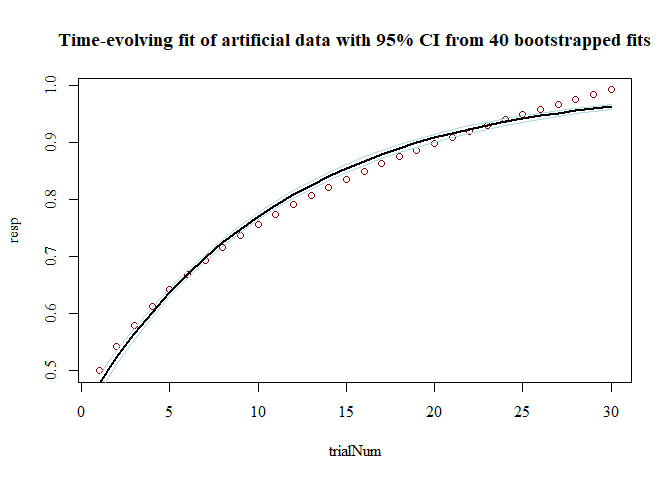
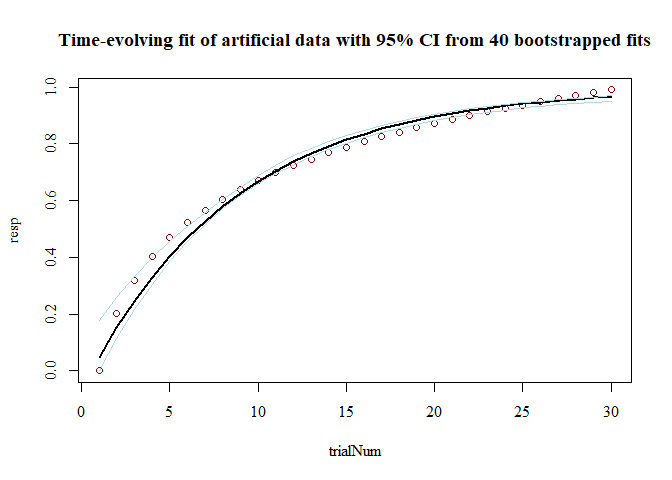
update README

diff --git a/README.md b/README.md
@@ -5,7 +5,7 @@ Overview to Time-Evolving fits
 The **TEfits** package streamlines nonlinear regression such as that encountered in analysis of learning. The **TEfits** package is intended to assist in the implementation and interpretation of nonlinear regression with a heavy emphasis on interpretability of parameters. Parameters fit by **TEfits** are meant to reflect human-interpretable representations of time-evolving processes such as starting values, number of trials until 50% of change, or asymptotic values. Error functions, nonlinear ("change") functions linking parameters and time to predicted values, parameter and prediction boundaries, and goodness-of-fit indices are intended to be clear and adjustable. An equal emphasis is on ease of use: minimal arguments are necessary to begin using the primary function, `TEfit()`, and many common tasks are fully automated (e.g., optimization starting points, bootstrapping).
 
 ``` r
-dat <- data.frame(resp=log(6:35),trialNum=1:30)
+dat <- data.frame(resp=log(1:30),trialNum=1:30)
 mod <- TEfit(dat[,c('resp','trialNum')])
 
 plot(mod,plot_title='Time-evolving fit of artificial data')
@@ -24,28 +24,28 @@ summary(mod)
     ## 
     ## >> Fit Values:
     ##        Estimate
-    ## pAsym     3.876
-    ## pStart    1.840
-    ## pRate     3.509
+    ## pAsym     3.371
+    ## pStart    0.316
+    ## pRate     2.543
     ## 
     ## >> Goodness-of-fit:
-    ##             err nullErr nPars nObs     Fval Pval  Rsquared       BIC   nullBIC
-    ## ols 0.008682719 7.34803     3   30 11411.31    0 0.9988184 -234.2249 -38.80176
+    ##           err nullErr nPars nObs     Fval Pval  Rsquared       BIC   nullBIC
+    ## ols 0.2760858  20.974     3   30 1012.083    0 0.9868368 -130.4436 -7.336215
     ##      deltaBIC
-    ## ols -195.4232
+    ## ols -123.1074
     ## 
     ## >> Test of change in nonindependence:
     ##                                            rawSpearman modelConditionalSpearman
-    ## Nonindependence between resp and trialNum:           1               0.05494994
+    ## Nonindependence between resp and trialNum:           1             0.0002224694
     ##                                            proportionalSpearmanChange
-    ## Nonindependence between resp and trialNum:                 0.05494994
+    ## Nonindependence between resp and trialNum:               0.0002224694
     ##                                            pValSpearmanChange
     ## Nonindependence between resp and trialNum:                  0
 
 An example of a learning fit using a Bernoulli response distribution, with 40 bootstrapped fits.
 
 ``` r
-dat <- data.frame(resp=log(6:35)/log(36),trialNum=1:30)
+dat <- data.frame(resp=log(1:30)/log(31),trialNum=1:30)
 mod <- TEfit(dat[,c('resp','trialNum')], 
              errFun='bernoulli',
              bootPars=list(nBoots=40))
@@ -65,19 +65,19 @@ summary(mod)
     ## 
     ## >> Fit Values:
     ##        Estimate  Q025  Q975 pseudoSE
-    ## pAsym     1.000 1.000 1.000    0.000
-    ## pRate     2.922 2.855 3.012    0.040
-    ## pStart    0.477 0.462 0.494    0.008
+    ## pAsym     0.998 0.973 1.000    0.007
+    ## pRate     2.557 2.374 2.764    0.099
+    ## pStart    0.046 0.000 0.178    0.045
     ## 
     ## >> Goodness-of-fit:
-    ##                err  nullErr nPars nObs      BIC  nullBIC deltaBIC
-    ## bernoulli 12.57908 14.47716     3   30 35.36175 32.35552  3.00623
+    ##                err nullErr nPars nObs      BIC nullBIC  deltaBIC
+    ## bernoulli 13.11101 17.6538     3   30 36.42561 38.7088 -2.283196
     ## 
     ## >> Test of change in nonindependence:
     ##                                            rawSpearman modelConditionalSpearman
-    ## Nonindependence between resp and trialNum:           1               -0.1586207
+    ## Nonindependence between resp and trialNum:           1                0.2520578
     ##                                            proportionalSpearmanChange
-    ## Nonindependence between resp and trialNum:                  0.1586207
+    ## Nonindependence between resp and trialNum:                  0.2520578
     ##                                            pValSpearmanChange
     ## Nonindependence between resp and trialNum:                  0
     ## 
@@ -86,8 +86,8 @@ summary(mod)
     ## >> Timepoint at which resampled estimates diverge from timepoint 1, with Cohen's d>1: 2 
     ## 
     ## >> Bootstrapped parameter correlations:
-    ##         pAsym pStart  pRate    err
-    ## pAsym   1.000 -0.322 -0.362 -0.448
-    ## pStart -0.322  1.000  0.788  0.640
-    ## pRate  -0.362  0.788  1.000  0.792
-    ## err    -0.448  0.640  0.792  1.000
+    ##        pAsym pStart pRate   err
+    ## pAsym  1.000  0.621 0.830 0.088
+    ## pStart 0.621  1.000 0.931 0.452
+    ## pRate  0.830  0.931 1.000 0.364
+    ## err    0.088  0.452 0.364 1.000
